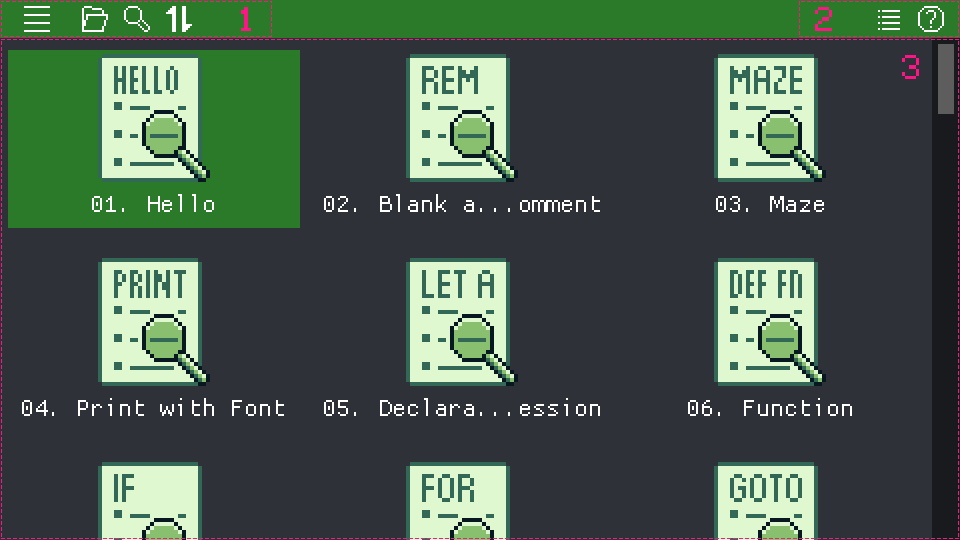
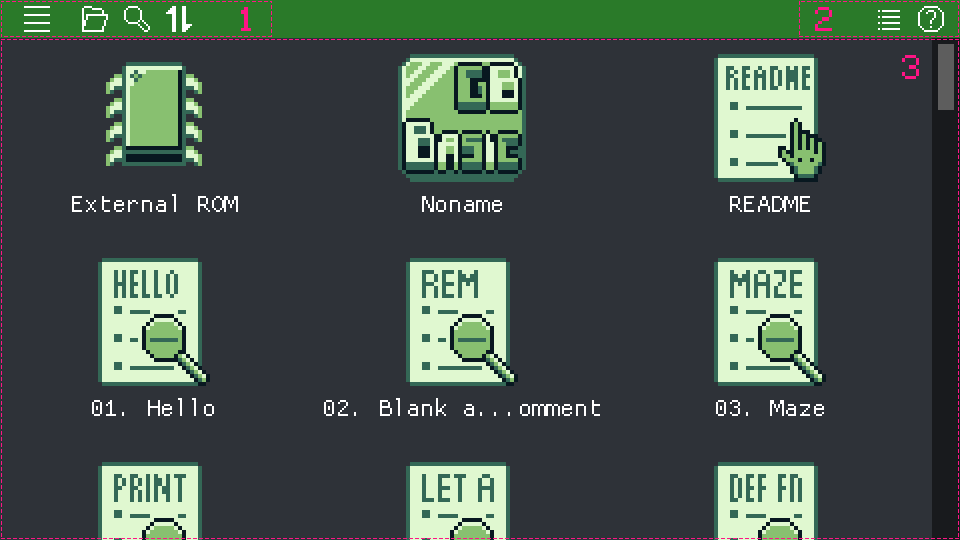
*Updated the manual of GB BASIC. *Updated the changelog of GB BASIC.

diff --git a/kits/gbb/documents/manual.md b/kits/gbb/documents/manual.md
@@ -177,11 +177,15 @@ The key bindings for operating a running program are configured in the applicati
 
 **Recent/library**
 
+This is the first screen when launching the application in normal mode. It is used to create a new project, load an existing project from local disk, or open a recent project.
+
 ![](imgs/recent.png)
 
 1. File menu and buttons
 2. View buttons
 3. Projects: All recent projects will be placed here
+
+In addition to editable project files, GB BASIC also supports adding ".gb", ".gbc", and ".zip" ROM files to the library for centralized browsing. A zip file must contain a valid ROM file (gb, gbc) and an optional icon file (png, jpg, bmp, tga). All files should be at the root directory of the zip file. The icon file will be used as the thumbnail of the ROM file.
 
 **Code editor**
 
@@ -444,7 +448,7 @@ An expression is a syntactic entity that may be evaluated to determine its value
 There are two fundamental data types in GB BASIC, String and Integer. Besides, it also supports Byte, Boolean, ID and Nothing, which are just type aliases of Integer, the purpose of these aliases is that they indicate different semantic meanings.
 
 * String
-  * is used by `print`, `text`, `label`, etc. for literal text or formatting
+  * is used by `print`, `text`, `label`, `menu`, etc. for literal text or formatting
 * Integer (16-bit signed)
   * denotes most of the numeric data in GB BASIC
 * Byte (8-bit signed/unsigned)
@@ -1442,13 +1446,15 @@ For example, `sprite id, 8, 16` puts a sprite at the top-left corner of the scre
   * `prop`: the property type; can be one of the following "Sprite properties" constants
   * `val`: the property value
 
-| Sprite properties | Value type | Default value     | Note                                                       | Access     |
-|-------------------|------------|-------------------|------------------------------------------------------------|------------|
-| `PALETTE_PROP`    | Boolean    | `false` (OBJ0PAL) | Whether to use colors come from OBJ0PAL or OBJ1PAL         | Read/write |
-| `HFLIP_PROP`      | Boolean    | `false`           | Whether to flip horizontally                               | Read/write |
-| `VFLIP_PROP`      | Boolean    | `false`           | Whether to flip vertically                                 | Read/write |
-| `PRIORITY_PROP`   | Boolean    | `false`           | Whether to draw the sprite below the background and window | Read/write |
-| `HIDDEN_PROP`     | Boolean    | `false`           | Whether the sprite is hidden or visible                    | Read/write |
+| Sprite properties | Value type | Default value     | Note                                                                  | Access     |
+|-------------------|------------|-------------------|-----------------------------------------------------------------------|------------|
+| `PALETTE_PROP`    | Integer    | `0`               | The palette color index used for this sprite; for colored device only | Read/write |
+| `BANK_PROP`       | Integer    | `0`               | The VRAM bank used for this sprite; for colored device only           | Read/write |
+| `OBJPAL_PROP`     | Integer    | `0` (OBJ0PAL)     | Whether to use colors come from OBJ0PAL or OBJ1PAL                    | Read/write |
+| `HFLIP_PROP`      | Boolean    | `false`           | Whether to flip horizontally                                          | Read/write |
+| `VFLIP_PROP`      | Boolean    | `false`           | Whether to flip vertically                                            | Read/write |
+| `PRIORITY_PROP`   | Boolean    | `false`           | Whether to draw the sprite below the background and window            | Read/write |
+| `HIDDEN_PROP`     | Boolean    | `false`           | Whether the sprite is hidden or visible                               | Read/write |
 
 There is no dedicated builtin editor for producing sprite assets. Since sprite data is actually just tile slices, it accepts all kinds of tiles data as its content, and indexes this data for appearance.
 
@@ -1488,7 +1494,7 @@ The elements of a scene consist of map layers and placed objects.
     * `name`: scene asset name
 * `load scene() = nothing`: unloads a scene; this operation resets the scene status, and deletes all objects including actors, triggers, projectiles and widgets; it also resets all effects
 
-A `def scene` operation can only fill map, attribute and property data to scene; a `load scene` does it further to fill actors, triggers, and definitions from an asset page. They are similar but `load scene` should be preferred for most cases.
+A `def scene` operation can only fill map, attribute and property data to scene; a `load scene` does it further to fill tiles, actors, triggers, and definitions from an asset page. They are similar but `load scene` should be preferred for most cases.
 
 * `=get scene width(#pg|"{name}")`: gets the width in tiles of the specific asset page
   * objectives:
@@ -1772,8 +1778,8 @@ An actor's behaving (`start`) routine is a routine that takes one parameter for 
 An actor's `hits` callback is a routine that takes two parameters for the first and second objects respectively that collide with each other by default; it can also accept two extra parameters for target's collision group and hit direction, when the `ACTOR_HIT_WITH_DETAILS_ENABLED` feature is enabled, the direction value represents the direction from the first object toward the second object. When an actor collides with another, the first two parameters are both actors, when an actor collides with a projectile, the former is the actor and the latter is the projectile. An actor only collides with projectiles that share overlapping collision bits. See the following callback signature for detail.
 
 * signature of `hits` callback `(obj0, obj1[, group, dir])`
-  * `obj0`: the first object, either actor or projectile
-  * `obj1`: the second object, either actor or projectile
+  * `obj0`: the first object, an actor
+  * `obj1`: the second object, either an actor or a projectile
   * `group`: the collision group of the second object; this is only available when the `ACTOR_HIT_WITH_DETAILS_ENABLED` feature is enabled
   * `dir`: the hit direction; this is only available when the `ACTOR_HIT_WITH_DETAILS_ENABLED` feature is enabled
 
@@ -1816,7 +1822,9 @@ Behaviour options can be set for an actor by performing a bitwise OR operation w
 
 ### Emote
 
-The drawing elements of an emote consist of hardware sprites and their associated tiles. The emote module raises small icons represented by 2x2 tiles, these icons are often used to express highlights and other emotions of characters. An emotion icon takes two 8x16 sprites, which the right half can be mirrored from the left if the mirrored flag is specified.
+The drawing elements of an emote consist of hardware sprites and their associated tiles. The emote module raises small icons represented by 2x2 tiles, these icons are often used to express highlights and other emotions of characters.
+
+A normal emotion icon takes four 8x8 sprites or two 8x16 sprites according to runtime state. When the mirrored flag is specified, the right half can be mirrored from the left, and it takes two 8x8 sprites or one 8x16 sprite. All 8x16 sprites are aligned to 2 tiles when referencing to them, meaning the starting tile index for each 8x16 emote should be an even number.
 
 * `emote(x, y, base_tile = 0, mirrored = false[, pal]) = read|data ...|"{builtin}"|#pg|"{name}"`: emotes with the specific tiles data
   * `x`: the x position to emote
@@ -1896,7 +1904,6 @@ The drawing elements of a projectile consist of hardware sprites and their assoc
   * `id`: the projectile ID
   * `prop`: the property type; can be one of the following "Projectile instance properties" constants
   * returns the property value
-
 <!-- * `set projectile property(type, prop) = val`: sets the specific projectile's definition property
   * `type`: the projectile type, with range of values from 0 to 4
   * `prop`: the property type; can be one of the following "Projectile definition properties" constants
@@ -2458,7 +2465,7 @@ The `RTC_ENABLED` must be on to use the RTC feature.
 | `FAST_CPU_ENABLED`               | Boolean                                | Determined by device | Whether to enable the fast CPU mode for the current program, only available on a colored device |
 | `AUTO_UPDATE_ENABLED`            | Boolean                                | `false`              | Whether to enable the automatic update feature                                                  |
 | `ACTOR_HIT_WITH_DETAILS_ENABLED` | Boolean                                | `false`              | Whether to pass hit details for actor collision callback                                        |
-| `OBJECT_SPRITE_BASE`             | Integer (8-bit unsigned)               | 0                    | The start sprite index for actors, emotes, projectiles, etc.                                    |
+| `OBJECT_SPRITE_BASE`             | Integer (8-bit unsigned)               | `0`                  | The start sprite index for actors, emotes, projectiles, etc.                                    |
 | `SRAM_BANK`                      | Integer (8-bit unsigned)               | `0`                  | Select the SRAM bank                                                                            |
 | `SRAM_ENABLED`                   | Boolean                                | `false`              | Whether to enable the SRAM                                                                      |
 | `VRAM_BANK`                      | "VRAM banks" (8-bit unsigned integer)  | `VRAM_BANK0`         | Select the VRAM bank                                                                            |
@@ -2471,7 +2478,7 @@ The `RTC_ENABLED` must be on to use the RTC feature.
 | `SPRITE8x16_ENABLED`             | Boolean                                | `false`              | Whether to enable the 8x16 sprite mode or 8x8 mode                                              |
 | `ACTIVE_TRIGGERS`                | Integer (8-bit unsigned)               | `0`                  | Specify the active trigger count                                                                |
 | `SOUND_ENABLED`                  | Boolean                                | `false`              | Whether to enable the sound hardware                                                            |
-| `MUSIC_POSITION`                 | Integer (8-bit unsigned)               | 0                    | The music position to start from                                                                |
+| `MUSIC_POSITION`                 | Integer (8-bit unsigned)               | `0`                  | The music position to start from                                                                |
 | `SERIAL_ENABLED`                 | Boolean                                | `false`              | Whether to enable the serial port                                                               |
 | `RTC_SEC`                        | Integer (8-bit unsigned)               | Determined by clock  | Select the second state of the RTC device for writing                                           |
 | `RTC_MIN`                        | Integer (8-bit unsigned)               | Determined by clock  | Select the minute state of the RTC device for writing                                           |

diff --git a/kits/gbb/documents/changelog.md b/kits/gbb/documents/changelog.md
@@ -2,9 +2,22 @@
 
 # Releases
 
-## GB BASIC v1.2
+## GB BASIC v1.3
 
 <details open>
+<summary><b>Click Me</b></summary>
+<div>
+This release introduces support for importing and managing external ROMs, providing greater flexibility for developers working with existing game assets. There are two new sprite properties available <code>BANK_PROP</code> and <code>OBJPAL_PROP</code> which enhanced coding flexibility for CGB sprites. Now emotes support 8x8px-per-tile based sprites. Fixed some known bugs, improved usability and compatibility. Added new tutorials chapters and content.
+</div>
+</details>
+
+* [Changelog](documents/changelogs/Changelog_v1.3.txt) (Oct. 28, 2025)
+* Download on [Steam](https://store.steampowered.com/app/2308700/)
+* Also available on [Itch.io](https://tonywang.itch.io/gbbasic)
+
+## GB BASIC v1.2
+
+<details>
 <summary><b>Click Me</b></summary>
 <div>
 This release introduces a public Tutorials platform, which provides a learning environment that is easier to read and practice with than the built-in documentation. Currently, about one-third of the content is complete, with subsequent content to be updated gradually. You can find the entry point by clicking the main menu, then clicking Help. Additionally, this update enhances the syntax's adaptability and convenience for different coding styles and fixes some bugs in the runtime, compiler and asset pipeline, and the editors. This version also adds a new "Minimal" starter kit for quickly building your game framework.
